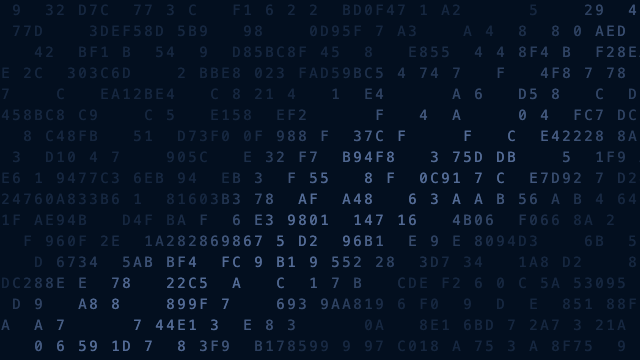
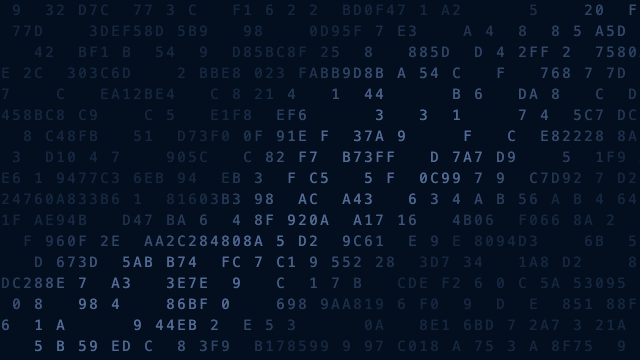
Glyph tide 2.0.0 and text flow 3.0.0 share one list of texts: code, a terminal, secrets, words about nothing in the page's language, an own text, and alphabets (glyph tide's symbols are now signs, text flow's letters; the old names still read)

diff --git a/effects/text-flow/index.js b/effects/text-flow/index.js
@@ -6,25 +6,51 @@
 // generator, so a mount draws the same scene at the defaults; only a click's wave is random. Reduced
 // motion draws one still frame; a hidden tab or an area off screen asks for no frames.
 const instances = new WeakMap();
-const textSources={"javascript": ["const light = await findSomethingBeautiful();", "function breathe(time) { return Math.sin(time * 0.5); }", "const leaves = points.map(point => wind.carry(point));", "if (curiosity) { explore(); }", "const wave = { shape: randomShape(), life: 4 };", "for (const letter of story) { reveal(letter); }", "requestAnimationFrame(() => makeRoomForWonder());", "const answer = 42; // a small secret in the dark", "export const quiet = () => new Promise(resolve => dawn(resolve));", "// sometimes the background has something to say"], "html": ["<!doctype html> <html lang=\"ru\">", "<main class=\"quiet\"> <section> hello, human. </section> </main>", ":root { --light: #74b4d5; --curiosity: 1; }", ".leaf { transform: rotate(var(--wind)); }", "@keyframes breathe { 50% { opacity: 0.42; } }", "<canvas aria-hidden=\"true\"></canvas>", ".wave { animation: grow 4s ease-out; }", "<!-- Ты нашёл маленькую пасхалку. -->", "@media (prefers-reduced-motion: reduce) { .leaf { animation: none; } }", "body { margin: 0; background: #141414; }"], "terminal": ["$ git status --short", "$ npm run build", "✓ build complete   ✓ no errors   ✓ ready for another idea", "$ echo \"hello, human.\"", "$ git log --oneline --max-count=5", "42c0ffe add a little wonder", "$ node explore.js --curiosity=high", "[info] listening for the next small discovery", "$ printf \"keep looking\\n\"", "// not all secrets need a password"], "easter": ["// hello, human. you found the quiet part.", "// Ты нашёл эту строку. Значит, свет был здесь.", "const answer = 42;", "// SIMAI — маленькие детали тоже имеют значение.", "while (curiosity) { explore(); }", "// Здесь могла быть ещё одна хорошая идея."]};
+// The texts glyph tide and text flow share: code, a terminal, lines with secrets, words that sound
+// meaningful and say nothing (in the page's language), the reader's own text, and alphabets.
+const TEXTS = {
+  javascript: ['const light = await findSomethingBeautiful();', 'function breathe(time) { return Math.sin(time * 0.5); }', 'const leaves = points.map(point => wind.carry(point));', 'if (curiosity) { explore(); }', 'const wave = { shape: randomShape(), life: 4 };', 'for (const letter of story) { reveal(letter); }', 'requestAnimationFrame(() => makeRoomForWonder());', 'const answer = 42; // a small secret in the dark', 'export const quiet = () => new Promise(resolve => dawn(resolve));', '// sometimes the background has something to say'],
+  html: ['<!doctype html> <html lang="ru">', '<main class="quiet"> <section> hello, human. </section> </main>', ':root { --light: #74b4d5; --curiosity: 1; }', '.leaf { transform: rotate(var(--wind)); }', '@keyframes breathe { 50% { opacity: 0.42; } }', '<canvas aria-hidden="true"></canvas>', '.wave { animation: grow 4s ease-out; }', '<!-- Ты нашёл маленькую пасхалку. -->', '@media (prefers-reduced-motion: reduce) { .leaf { animation: none; } }', 'body { margin: 0; background: #141414; }'],
+  terminal: ['$ git status --short', '$ npm run build', '✓ build complete   ✓ no errors   ✓ ready for another idea', '$ echo "hello, human."', '$ git log --oneline --max-count=5', '42c0ffe add a little wonder', '$ node explore.js --curiosity=high', '[info] listening for the next small discovery', '$ printf "keep looking\\n"', '// not all secrets need a password'],
+  easter: ['// hello, human. you found the quiet part.', '// Ты нашёл эту строку. Значит, свет был здесь.', 'const answer = 42;', '// SIMAI — маленькие детали тоже имеют значение.', 'while (curiosity) { explore(); }', '// Здесь могла быть ещё одна хорошая идея.'],
+  prose: {
+    ru: ['Всё начинается с тишины, в которой уже слышен ответ.', 'Форма следует за смыслом, а смысл — за светом.', 'Каждая деталь знает, зачем она здесь.', 'Мы строим не страницы, а места, куда хочется вернуться.', 'Простота — это сложность, которая нашла покой.', 'Время идёт быстрее там, где интересно.', 'Хороший интерфейс отвечает раньше, чем его спросят.', 'Свет ложится туда, где его ждут.', 'Важное редко бывает громким.', 'Путь становится ясным, когда по нему идут.'],
+    en: ['Everything begins with a silence that already holds the answer.', 'Form follows meaning, and meaning follows the light.', 'Every detail knows why it is here.', 'We build not pages but places worth returning to.', 'Simplicity is complexity at rest.', 'Time runs faster where things are interesting.', 'A good interface answers before it is asked.', 'Light falls where it is awaited.', 'What matters is rarely loud.', 'The way grows clear as it is walked.'],
+  },
+};
+const ALPHABETS = {letters: 'abcdefghijklmnopqrstuvwxyzABCDEFGHIJKLMNOPQRSTUVWXYZ0123456789', hex: '0123456789ABCDEF', binary: '01', digits: '0123456789', signs: '+-×÷=<>/\\|*#%&~^:;·°§'};
+// Lines for a kind of text, or an alphabet. The own text breaks into sentences; empty, it is the words.
+function textSource(kind, own, lang) {
+  if (ALPHABETS[kind]) return {alphabet: ALPHABETS[kind]};
+  if (kind === 'custom') {
+    const lines = String(own ?? '').split(/(?<=[.!?…])\s+|\n+/u).map((line) => line.trim()).filter(Boolean);
+    if (lines.length) return {lines};
+    kind = 'prose';
+  }
+  const lines = TEXTS[kind] ?? TEXTS.javascript;
+  return {lines: Array.isArray(lines) ? lines : lines[lang] ?? lines.en};
+}
+// The words' language: the setting's, or the page's around the area.
+function pageLang(node, choice) {
+  if (choice === 'ru' || choice === 'en') return choice;
+  return (node?.closest?.('[lang]')?.lang || node?.ownerDocument?.documentElement?.lang || 'en').slice(0, 2).toLowerCase() === 'ru' ? 'ru' : 'en';
+}
 
-const defaults = {theme:'javascript', fontSize:12, speed:100, light:52, base:5, scale:65, clicks:true, ground:'#141414', ink:'#74b4d5'};
+const defaults = {theme:'javascript', text:'', language:'auto', fontSize:12, speed:100, light:52, base:5, scale:65, clicks:true, ground:'#141414', ink:'#74b4d5'};
 const ranges = {fontSize:[8,18],speed:[0,200],light:[0,100],base:[0,30],scale:[50,200]};
 function mountTextFlow(host, options={}, still=false) {
  if (!(host instanceof HTMLElement)) throw new TypeError('Text Flow requires an HTMLElement');
  if (instances.has(host)) return instances.get(host);
  const cfg={...defaults};
- function applyOptions(patch){for(const key of Object.keys(ranges)){if(patch[key]!==undefined&&Number.isFinite(Number(patch[key]))){const [min,max]=ranges[key];cfg[key]=Math.max(min,Math.min(max,Number(patch[key])))}}if(patch.theme!==undefined)cfg.theme=['symbols','hex','binary','digits','signs','javascript','html','terminal','easter'].includes(patch.theme)?patch.theme:'symbols';if(patch.clicks!==undefined)cfg.clicks=Boolean(patch.clicks);if(typeof patch.ground==='string')cfg.ground=patch.ground;if(typeof patch.ink==='string')cfg.ink=patch.ink}
+ function applyOptions(patch){for(const key of Object.keys(ranges)){if(patch[key]!==undefined&&Number.isFinite(Number(patch[key]))){const [min,max]=ranges[key];cfg[key]=Math.max(min,Math.min(max,Number(patch[key])))}}if(patch.theme!==undefined)cfg.theme=patch.theme==='symbols'?'letters':TEXTS[patch.theme]||ALPHABETS[patch.theme]||patch.theme==='custom'?patch.theme:'letters';if(patch.text!==undefined)cfg.text=String(patch.text);if(patch.language!==undefined)cfg.language=patch.language;if(patch.clicks!==undefined)cfg.clicks=Boolean(patch.clicks);if(typeof patch.ground==='string')cfg.ground=patch.ground;if(typeof patch.ink==='string')cfg.ink=patch.ink}
  applyOptions(options);
  const canvas=document.createElement('canvas');canvas.style.cssText='position:absolute;inset:0;width:100%;height:100%;display:block;pointer-events:none;';canvas.setAttribute('aria-hidden','true');host.prepend(canvas);
  const ctx=canvas.getContext('2d'),texture=document.createElement('canvas'),tx=texture.getContext('2d'),lit=document.createElement('canvas'),lx=lit.getContext('2d'),mask=document.createElement('canvas'),mx=mask.getContext('2d');
  let visible=true,width=0,height=0,dpr=0,lineHeight,rows=[],time=0,last=0,lastDraw=0,textureDirty=true,maskData,pulses=[],frame=0,raf=0,destroyed=false,manualPaused=false,textBuilds=0,previousKind=-1;
  const motion=matchMedia('(prefers-reduced-motion: reduce)');
- // Rows of random characters, by set (the sets of glyph tide among them).
- const ALPHABETS={symbols:'abcdefghijklmnopqrstuvwxyzABCDEFGHIJKLMNOPQRSTUVWXYZ0123456789',hex:'0123456789ABCDEF',binary:'01',digits:'0123456789',signs:'+-×÷=<>/\\|*#%&~^:;·°§'};
  let seed=4739;function random(){seed=(Math.imul(seed,1664525)+1013904223)>>>0;return seed/4294967296}
  function waveRandom(){return Math.random()}
- function rebuildRows(){seed=4739;lineHeight=Math.round(cfg.fontSize*1.6);const count=Math.ceil((width+320)/(cfg.fontSize*.6+1.5)),lines=textSources[cfg.theme];rows=Array.from({length:Math.ceil(height/lineHeight)+1},(_,i)=>{let text;const alphabet=ALPHABETS[cfg.theme]||ALPHABETS.symbols;if(ALPHABETS[cfg.theme]||(cfg.theme==='easter'&&i%6!==2))text=Array.from({length:count},()=>alphabet[Math.floor(random()*alphabet.length)]).join('');else{const line=lines[cfg.theme==='easter'?Math.floor(i/6)%lines.length:i%lines.length]+'    ';text=line.repeat(Math.ceil(count/line.length)+1)}return{text,offset:random()*160}});textureDirty=true}
+ function rebuildRows(){seed=4739;lineHeight=Math.round(cfg.fontSize*1.6);const count=Math.ceil((width+320)/(cfg.fontSize*.6+1.5)),source=textSource(cfg.theme,cfg.text,pageLang(host,cfg.language)),lines=source.lines;rows=Array.from({length:Math.ceil(height/lineHeight)+1},(_,i)=>{let text;const alphabet=source.alphabet||ALPHABETS.letters;if(source.alphabet||(cfg.theme==='easter'&&i%6!==2))text=Array.from({length:count},()=>alphabet[Math.floor(random()*alphabet.length)]).join('');else{const line=lines[cfg.theme==='easter'?Math.floor(i/6)%lines.length:i%lines.length]+'    ';text=line.repeat(Math.ceil(count/line.length)+1)}return{text,offset:random()*160}});textureDirty=true}
  function resize(){if(destroyed)return;const w=Math.max(1,host.clientWidth),h=Math.max(1,host.clientHeight),ratio=Math.min(devicePixelRatio||1,2);if(w===width&&h===height&&ratio===dpr)return;width=w;height=h;dpr=ratio;canvas.width=Math.round(width*dpr);canvas.height=Math.round(height*dpr);ctx.setTransform(dpr,0,0,dpr,0,0);texture.width=Math.ceil(width+320);texture.height=height;lit.width=width;lit.height=height;mask.width=Math.ceil(width/9);mask.height=Math.ceil(height/9);maskData=mx.createImageData(mask.width,mask.height);rebuildRows();render()}
 const smooth=x=>x*x*(3-2*x),mix=(a,b,t)=>a+(b-a)*t;
 function hash(x,y){let n=Math.imul(x,374761393)+Math.imul(y,668265263);n=Math.imul(n^(n>>>13),1274126177);return((n^(n>>>16))>>>0)/4294967295}
@@ -77,7 +103,7 @@ function createWaveMask(kind,rng){
  function visibility(){last=0;lastDraw=performance.now();if(still||motion.matches)render();wake()}
  const observer=new ResizeObserver(resize);observer.observe(host);const screen=new IntersectionObserver(([entry])=>{visible=entry.isIntersecting;if(visible)wake()});screen.observe(host);document.addEventListener('pointerdown',click);document.addEventListener('visibilitychange',visibility);window.addEventListener('resize',resize);motion.addEventListener('change',visibility);
  const api={
-  update(patch={}){if(destroyed)return;const previous={...cfg};applyOptions(patch);if(cfg.fontSize!==previous.fontSize||cfg.theme!==previous.theme)rebuildRows();if(cfg.ink!==previous.ink)textureDirty=true;render()},
+  update(patch={}){if(destroyed)return;const previous={...cfg};applyOptions(patch);if(cfg.fontSize!==previous.fontSize||cfg.theme!==previous.theme||cfg.text!==previous.text||cfg.language!==previous.language)rebuildRows();if(cfg.ink!==previous.ink)textureDirty=true;render()},
   pause(){manualPaused=true},
   resume(){manualPaused=false;visibility()},
   destroy(){if(destroyed)return;destroyed=true;cancelAnimationFrame(raf);observer.disconnect();screen.disconnect();document.removeEventListener('pointerdown',click);document.removeEventListener('visibilitychange',visibility);window.removeEventListener('resize',resize);motion.removeEventListener('change',visibility);canvas.remove();pulses=[];rows=[];for(const c of [canvas,texture,lit,mask]){c.width=0;c.height=0}instances.delete(host)}
@@ -99,7 +125,7 @@ function readTones(host, scheme) {
 
 // The settings by the catalogue's names: size is the font size, intensity the light of the folds,
 // base the text left visible in the shade, interactive the waves on a click.
-const options = (settings) => ({theme: settings.theme, fontSize: settings.size, speed: settings.speed, light: settings.intensity,
+const options = (settings) => ({theme: settings.theme, text: settings.text, language: settings.language, fontSize: settings.size, speed: settings.speed, light: settings.intensity,
   base: settings.base, scale: settings.scale, clicks: settings.interactive !== false});
 
 export function mount(host, settings = {}, context = {}) {

diff --git a/effects/glyph-tide/index.js b/effects/glyph-tide/index.js
@@ -85,12 +85,40 @@ const noise2 = (x, y) => {
   return a + (b - a) * u + (c - a) * v + (a - b - c + d) * u * v;
 };
 
-const SETS = {hex: '0123456789ABCDEF', binary: '01', digits: '0123456789', symbols: '+-×÷=<>/\\|*#%&~^:;·°§'};
+// The texts glyph tide and text flow share: code, a terminal, lines with secrets, words that sound
+// meaningful and say nothing (in the page's language), the reader's own text, and alphabets.
+const TEXTS = {
+  javascript: ['const light = await findSomethingBeautiful();', 'function breathe(time) { return Math.sin(time * 0.5); }', 'const leaves = points.map(point => wind.carry(point));', 'if (curiosity) { explore(); }', 'const wave = { shape: randomShape(), life: 4 };', 'for (const letter of story) { reveal(letter); }', 'requestAnimationFrame(() => makeRoomForWonder());', 'const answer = 42; // a small secret in the dark', 'export const quiet = () => new Promise(resolve => dawn(resolve));', '// sometimes the background has something to say'],
+  html: ['<!doctype html> <html lang="ru">', '<main class="quiet"> <section> hello, human. </section> </main>', ':root { --light: #74b4d5; --curiosity: 1; }', '.leaf { transform: rotate(var(--wind)); }', '@keyframes breathe { 50% { opacity: 0.42; } }', '<canvas aria-hidden="true"></canvas>', '.wave { animation: grow 4s ease-out; }', '<!-- Ты нашёл маленькую пасхалку. -->', '@media (prefers-reduced-motion: reduce) { .leaf { animation: none; } }', 'body { margin: 0; background: #141414; }'],
+  terminal: ['$ git status --short', '$ npm run build', '✓ build complete   ✓ no errors   ✓ ready for another idea', '$ echo "hello, human."', '$ git log --oneline --max-count=5', '42c0ffe add a little wonder', '$ node explore.js --curiosity=high', '[info] listening for the next small discovery', '$ printf "keep looking\\n"', '// not all secrets need a password'],
+  easter: ['// hello, human. you found the quiet part.', '// Ты нашёл эту строку. Значит, свет был здесь.', 'const answer = 42;', '// SIMAI — маленькие детали тоже имеют значение.', 'while (curiosity) { explore(); }', '// Здесь могла быть ещё одна хорошая идея.'],
+  prose: {
+    ru: ['Всё начинается с тишины, в которой уже слышен ответ.', 'Форма следует за смыслом, а смысл — за светом.', 'Каждая деталь знает, зачем она здесь.', 'Мы строим не страницы, а места, куда хочется вернуться.', 'Простота — это сложность, которая нашла покой.', 'Время идёт быстрее там, где интересно.', 'Хороший интерфейс отвечает раньше, чем его спросят.', 'Свет ложится туда, где его ждут.', 'Важное редко бывает громким.', 'Путь становится ясным, когда по нему идут.'],
+    en: ['Everything begins with a silence that already holds the answer.', 'Form follows meaning, and meaning follows the light.', 'Every detail knows why it is here.', 'We build not pages but places worth returning to.', 'Simplicity is complexity at rest.', 'Time runs faster where things are interesting.', 'A good interface answers before it is asked.', 'Light falls where it is awaited.', 'What matters is rarely loud.', 'The way grows clear as it is walked.'],
+  },
+};
+const ALPHABETS = {letters: 'abcdefghijklmnopqrstuvwxyzABCDEFGHIJKLMNOPQRSTUVWXYZ0123456789', hex: '0123456789ABCDEF', binary: '01', digits: '0123456789', signs: '+-×÷=<>/\\|*#%&~^:;·°§'};
+// Lines for a kind of text, or an alphabet. The own text breaks into sentences; empty, it is the words.
+function textSource(kind, own, lang) {
+  if (ALPHABETS[kind]) return {alphabet: ALPHABETS[kind]};
+  if (kind === 'custom') {
+    const lines = String(own ?? '').split(/(?<=[.!?…])\s+|\n+/u).map((line) => line.trim()).filter(Boolean);
+    if (lines.length) return {lines};
+    kind = 'prose';
+  }
+  const lines = TEXTS[kind] ?? TEXTS.javascript;
+  return {lines: Array.isArray(lines) ? lines : lines[lang] ?? lines.en};
+}
+// The words' language: the setting's, or the page's around the area.
+function pageLang(node, choice) {
+  if (choice === 'ru' || choice === 'en') return choice;
+  return (node?.closest?.('[lang]')?.lang || node?.ownerDocument?.documentElement?.lang || 'en').slice(0, 2).toLowerCase() === 'ru' ? 'ru' : 'en';
+}
 
 const FX = {
   seed: 83,
   t0: 10,
-  settings: {speed: [100, 10, 300], density: [55, 10, 100], charset: 'hex', size: [14, 10, 24], interactive: true, scheme: 'dark'},
+  settings: {speed: [100, 10, 300], density: [55, 10, 100], charset: 'hex', text: '', language: 'auto', size: [14, 10, 24], interactive: true, scheme: 'dark'},
   init(env, rand) {
     const st = {rand, glow: 0};
     this.build(env, st);
@@ -98,13 +126,24 @@ const FX = {
   },
   build(env, st) {
     const {S, w, h} = env;
-    const chars = SETS[S.charset] || SETS.hex;
+    // The old name "symbols" is the signs.
+    const source = textSource(S.charset === 'symbols' ? 'signs' : S.charset, S.text, pageLang(env.canvas, S.language));
     const size = S.size, cw = Math.ceil(size * 0.78), ch = Math.ceil(size * 1.45);
-    st.chars = chars; st.cw = cw; st.ch = ch;
+    st.cw = cw; st.ch = ch;
     st.cols = Math.ceil(w / cw) + 1; st.rows = Math.ceil(h / ch) + 1;
     const n = st.cols * st.rows;
     st.glyph = new Int16Array(n);
-    for (let i = 0; i < n; i += 1) st.glyph[i] = st.rand() * 100 < S.density ? (st.rand() * chars.length) | 0 : -1;
+    // Text is laid in reading order, cell after cell, and keeps its letters; an alphabet is scattered
+    // as thick as the density asks, and the tide turns its glyphs into others.
+    st.words = !source.alphabet;
+    if (st.words) {
+      const stream = [...source.lines.join('   ') + '   '], skip = (st.rand() * stream.length) | 0;
+      st.chars = [...new Set(stream)].filter((c) => c !== ' ');
+      for (let i = 0; i < n; i += 1) st.glyph[i] = st.chars.indexOf(stream[(i + skip) % stream.length]);
+    } else {
+      st.chars = [...source.alphabet];
+      for (let i = 0; i < n; i += 1) st.glyph[i] = st.rand() * 100 < S.density ? (st.rand() * st.chars.length) | 0 : -1;
+    }
     this.theme(env, st);
   },
   atlas(env, st, colour) {
@@ -142,7 +181,7 @@ const FX = {
   },
   resize(env, st) { this.build(env, st); },
   update(env, st, before) {
-    if (before.charset !== env.S.charset || before.size !== env.S.size || before.density !== env.S.density) this.build(env, st);
+    if (['charset', 'text', 'language', 'size', 'density'].some((key) => before[key] !== env.S[key])) this.build(env, st);
   },
   draw(env, st, time, dt) {
     const {ctx, w, h, S, C, dpr} = env;
@@ -169,7 +208,7 @@ const FX = {
           if (d2 < 1) b += (1 - d2) * 0.75 * st.glow;
         }
         if (b <= 0.02) continue;
-        if (change > 0 && st.rand() < change * b) {
+        if (!st.words && change > 0 && st.rand() < change * b) {
           glyph[i] = (st.rand() * st.chars.length) | 0;
           this.cell(env, st, i, true);
         }

diff --git a/effects/text-flow/README.md b/effects/text-flow/README.md
@@ -14,11 +14,15 @@ Rows of code scroll, lit by slow folds of light; the text takes the theme colour
 |:---|:---|:---|:---|:---|
 | `speed` | integer | 10–200 % | `100` | Speed |
 | `intensity` | integer | 0–100 % | `52` | Light. Brightness of the folds of light |
-| `theme` | choice | `javascript`, `html`, `terminal`, `easter`, `symbols`, `hex`, `binary`, `digits`, `signs` | `"javascript"` | Text |
+| `theme` | choice | `javascript`, `html`, `terminal`, `easter`, `prose`, `custom`, `letters`, `hex`, `binary`, `digits`, `signs` | `"javascript"` | Text. The same list as in glyph tide; `prose` is words that sound meaningful and say nothing, in the page's language |
+| `text` | text | up to 600 characters | `""` | Own text. For `custom`: sentences, or one per line |
+| `language` | choice | `auto`, `en`, `ru` | `"auto"` | Words language. For `prose`; `auto` follows the page |
 | `size` | integer | 8–18 px | `12` | Letter size |
 | `base` | integer | 0–30 % | `5` | Text in the dark |
 | `scale` | integer | 50–200 % | `65` | Fold size |
 | `interactive` | boolean | — | `true` | Wave on click. A click in the area sends a wave of light |
+
+Since 3.0.0 the old `symbols` value is called `letters` (it is still read as letters).
 
 ## Schemes
 

diff --git a/effects/glyph-tide/README.md b/effects/glyph-tide/README.md
@@ -14,9 +14,13 @@ A field of monospaced glyphs that a slow wave of light passes over.
 |:---|:---|:---|:---|:---|
 | `speed` | integer | 10–300 % | `100` | Speed |
 | `density` | integer | 10–100 % | `55` | Density. Share of filled cells |
-| `charset` | choice | `hex`, `binary`, `digits`, `symbols` | `"hex"` | Characters |
+| `charset` | choice | `javascript`, `html`, `terminal`, `easter`, `prose`, `custom`, `letters`, `hex`, `binary`, `digits`, `signs` | `"hex"` | Text. The same list as in text flow; `prose` is words that sound meaningful and say nothing, in the page's language |
+| `text` | text | up to 600 characters | `""` | Own text. For `custom`: sentences, or one per line |
+| `language` | choice | `auto`, `en`, `ru` | `"auto"` | Words language. For `prose`; `auto` follows the page |
 | `size` | integer | 10–24 px | `14` | Glyph size |
 | `interactive` | boolean | — | `true` | React to the pointer. Glyphs light up near the pointer |
+
+Since 2.0.0 the old `symbols` value is called `signs` (it is still read as signs). Text is laid in reading order and keeps its letters; an alphabet is scattered as thick as `density` asks, and the tide turns its glyphs into others.
 
 ## Schemes
 
